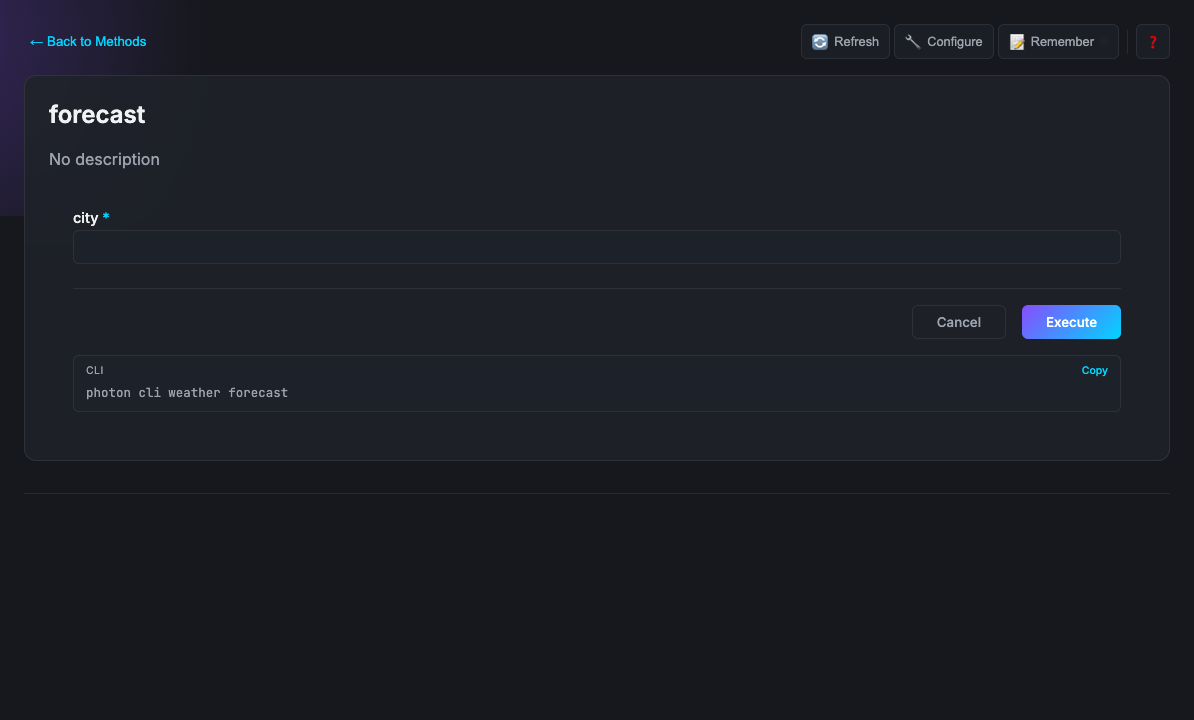
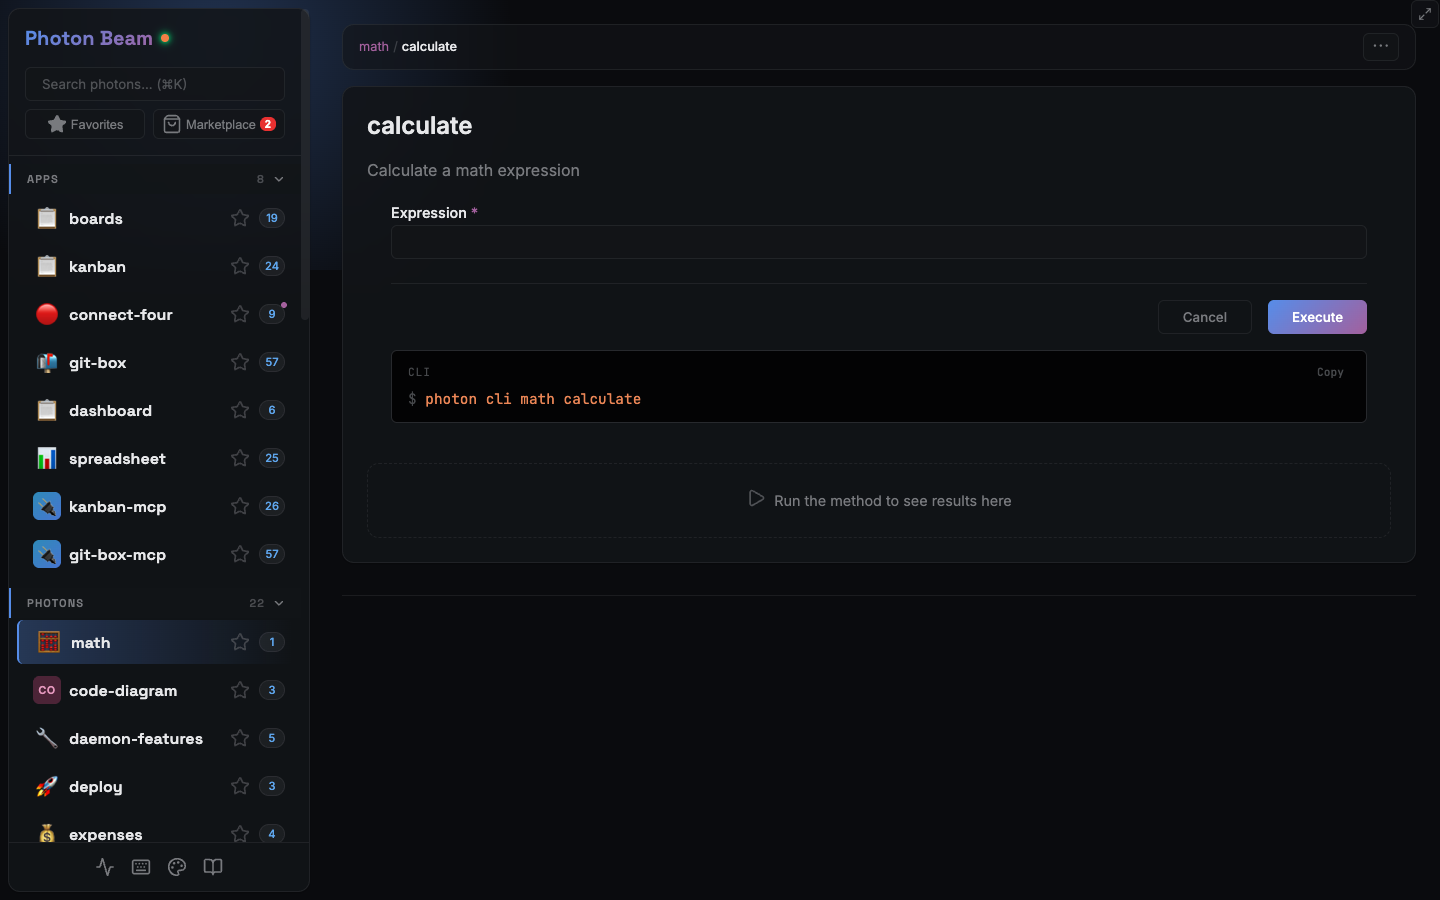
docs: refresh all screenshots and fix README polish
- Replace all step screenshots with current Beam UI
- Add video-preview.png (YouTube thumbnail with play button)
- Restore photon-ecosystem.png infographic reference
- Remove em-dashes throughout (AI writing indicator)
- Remove "Singular focus. Precise target. Made by Portel" footer
- Fix YouTube link to use video-preview.png instead of bare thumbnail

diff --git a/README.md b/README.md
@@ -16,19 +16,25 @@
 
 ---
 
-Your tools have two kinds of consumers now. Humans who open a dashboard and explore. AI agents that call your methods through a protocol. Until now, you've been building for one or the other — or building everything twice.
+Your tools have two kinds of consumers now. Humans who open a dashboard and explore. AI agents that call your methods through a protocol. Until now, you've been building for one or the other, or building everything twice.
 
 Photon is built around a different premise: **write what you mean, and let both consumers figure it out from that**.
 
-You write a TypeScript class. Methods are your capabilities. Types describe what's valid. Comments explain the intent. That's it. Photon reads all of it and generates — automatically, without configuration — a web UI for human exploration, a CLI for scripting, and an MCP server for AI agents. Same logic. Same validation. Same data. Three interfaces from one file.
+You write a TypeScript class. Methods are your capabilities. Types describe what's valid. Comments explain the intent. That's it. Photon reads all of it and generates a web UI for human exploration, a CLI for scripting, and an MCP server for AI agents. Same logic. Same validation. Same data. Three interfaces from one file.
 
 ```
 analytics.photon.ts  →  Web UI (Beam)  ·  CLI  ·  MCP Server for AI
 ```
 
-The code stays simple — almost embarrassingly simple — because the complexity isn't in what you write. It's in what Photon derives from it.
+The code stays simple, almost embarrassingly simple, because the complexity isn't in what you write. It's in what Photon derives from it.
 
-[![Watch: Why Photon? (2 min)](https://img.youtube.com/vi/FI0M8s6ZKv4/maxresdefault.jpg)](https://www.youtube.com/watch?v=FI0M8s6ZKv4)
+<div align="center">
+
+<a href="https://www.youtube.com/watch?v=FI0M8s6ZKv4">
+  <img src="https://raw.githubusercontent.com/portel-dev/photon/main/assets/video-preview.png" alt="Watch: Why Photon? (2 min)" width="100%">
+</a>
+
+</div>
 
 ---
 
@@ -37,7 +43,7 @@ The code stays simple — almost embarrassingly simple — because the complexit
 ```bash
 npm install -g @portel/photon
 photon maker new my-tool      # Create a photon
-photon                        # Open Beam — the web UI
+photon                        # Open Beam, the web UI
 ```
 
 Or without installing:
@@ -47,7 +53,7 @@ npx @portel/photon maker new my-tool
 npx @portel/photon
 ```
 
-> Requires [Node.js 18+](https://nodejs.org). TypeScript is compiled internally — no `tsconfig.json` needed.
+> Requires [Node.js 18+](https://nodejs.org). TypeScript is compiled internally; no `tsconfig.json` needed.
 
 ---
 
@@ -68,7 +74,7 @@ From this, Photon generates:
 - `photon cli analytics report --period 2024-Q4`
 - An MCP tool that Claude or Cursor can invoke
 
-No decorators. No registration. No server boilerplate. You wrote the logic — Photon derived the rest.
+No decorators. No registration. No server boilerplate. You wrote the logic. Photon derived the rest.
 
 The more you express, the more Photon understands.
 
@@ -76,17 +82,21 @@ The more you express, the more Photon understands.
 
 ## Everything You Add Becomes Something Useful
 
-This is the part that feels like it shouldn't work but does. Photon reads your TypeScript as **intent** — every construct you'd write anyway carries meaning it can act on.
+Photon reads your TypeScript as **intent**. Every construct you'd write anyway carries meaning it can act on.
 
 | What you write | What Photon derives |
 |---|---|
-| Method signatures | Tool definitions — names, inputs, outputs |
+| Method signatures | Tool definitions: names, inputs, outputs |
 | Type annotations | Input validation rules, UI field types |
 | JSDoc comments | Documentation for AI clients and human users |
 | Constructor parameters | Config UI, environment variable mapping |
 | `@tags` | Validation, formatting, scheduling, webhooks |
 
 So when you add a `@param city {@pattern ^[a-zA-Z\s]+$}` annotation you were going to write anyway, Beam automatically validates it in the form, the CLI validates it before running, and the MCP schema enforces it for the AI. One annotation. Three consumers.
+
+<div align="center">
+<img src="https://raw.githubusercontent.com/portel-dev/photon/main/assets/photon-ecosystem.png" alt="Photon: one file, three surfaces" width="100%">
+</div>
 
 ---
 
@@ -98,9 +108,9 @@ Beam is the web dashboard. Every photon becomes an interactive form. Run `photon
 <img src="https://raw.githubusercontent.com/portel-dev/photon/main/assets/beam-dashboard.png" alt="Beam Dashboard" width="100%">
 </div>
 
-The UI is **fully auto-generated** from your method signatures — field types, validation, defaults, layouts. You never write frontend code. When you add a `{@choice a,b,c}` tag to a parameter, Beam renders a dropdown. When you mark a string as `{@format email}`, the field validates email format. The UI evolves as your code does.
+The UI is **fully auto-generated** from your method signatures: field types, validation, defaults, layouts. You never write frontend code. When you add a `{@choice a,b,c}` tag to a parameter, Beam renders a dropdown. When you mark a string as `{@format email}`, the field validates email format. The UI evolves as your code does.
 
-When forms aren't the right interface for what you're building, you can replace Beam's auto-generated view with your own HTML. The custom UI receives tool results via `window.photon.onResult()` — a thin bridge, no framework required.
+When forms aren't the right interface for what you're building, you can replace Beam's auto-generated view with your own HTML. The custom UI receives tool results via `window.photon.onResult()`, a thin bridge with no framework required.
 
 > Custom UIs follow the [MCP Apps Extension (SEP-1865)](https://github.com/nicolo-ribaudo/modelcontextprotocol/blob/nicolo/sep-1865/docs/specification/draft/extensions/apps.mdx) standard and work across compatible hosts. See the [Custom UI Guide](./docs/guides/CUSTOM-UI.md).
 
@@ -135,7 +145,7 @@ Works with [Claude Desktop](https://claude.ai/download), [Claude Code](https://d
 
 Here is how a photon grows. Each step adds one thing and gets multiple capabilities from it.
 
-### Bare method → three interfaces
+### Bare method: three interfaces from twelve lines
 
 ```typescript
 export default class Weather {
@@ -151,7 +161,7 @@ A text input in Beam. A `--city` flag in the CLI. An MCP input schema. From twel
 <img src="https://raw.githubusercontent.com/portel-dev/photon/main/assets/readme-step-1.png" alt="Step 1" width="100%">
 </div>
 
-### Add comments → AI understands your intent
+### Add comments: AI understands your intent
 
 ```typescript
 /**
@@ -172,7 +182,7 @@ The class description becomes how AI clients introduce the tool to users. The `@
 <img src="https://raw.githubusercontent.com/portel-dev/photon/main/assets/readme-step-2.png" alt="Step 2" width="100%">
 </div>
 
-### Add a constructor → configuration appears
+### Add a constructor: configuration appears
 
 ```typescript
 export default class Weather {
@@ -188,13 +198,13 @@ export default class Weather {
 }
 ```
 
-`apiKey` becomes a password field in the Beam settings panel and maps to the `WEATHER_API_KEY` environment variable. `units` gets a text input with `'metric'` pre-filled. You declared what you need — Photon built the configuration surface.
+`apiKey` becomes a password field in the Beam settings panel and maps to the `WEATHER_API_KEY` environment variable. `units` gets a text input with `'metric'` pre-filled. You declared what you need. Photon built the configuration surface.
 
 <div align="center">
 <img src="https://raw.githubusercontent.com/portel-dev/photon/main/assets/readme-step-3.png" alt="Step 3" width="100%">
 </div>
 
-### Add tags → behavior extends across all surfaces
+### Add tags: behavior extends across all surfaces
 
 ```typescript
 /**
@@ -210,7 +220,7 @@ export default class Weather {
 }
 ```
 
-`@dependencies` installs `node-fetch` automatically on first run — no `npm install`. The `{@pattern}` validates in the form, the CLI, and the MCP schema simultaneously. `days` becomes a number spinner with bounds. `@format table` renders the result as a table in Beam. One annotation, three surfaces.
+`@dependencies` installs `node-fetch` automatically on first run, no `npm install` needed. The `{@pattern}` validates in the form, the CLI, and the MCP schema simultaneously. `days` becomes a number spinner with bounds. `@format table` renders the result as a table in Beam. One annotation, three surfaces.
 
 <div align="center">
 <img src="https://raw.githubusercontent.com/portel-dev/photon/main/assets/readme-step-4.png" alt="Step 4" width="100%">
@@ -243,13 +253,13 @@ Things you don't build because Photon handles them:
 
 | | |
 |---|---|
-| **Auto-UI** | Forms, field types, validation, layouts — generated from your signatures |
+| **Auto-UI** | Forms, field types, validation, layouts generated from your signatures |
 | **Stateful instances** | Multiple named instances of the same photon, each with isolated state |
 | **Persistent memory** | `this.memory` gives your photon per-instance key-value storage, no database needed |
 | **Scheduled execution** | `@scheduled` runs any method on a cron schedule |
 | **Webhooks** | `@webhook` exposes any method as an HTTP endpoint |
 | **OAuth** | Built-in OAuth 2.1 flows for Google, GitHub, Microsoft |
-| **Distributed locks** | `@locked` serializes access — one caller at a time, across processes |
+| **Distributed locks** | `@locked` serializes access: one caller at a time, across processes |
 | **Cross-photon calls** | `this.call()` invokes another photon's methods |
 | **Real-time events** | `this.emit()` fires named events to the browser UI with zero wiring |
 | **Dependency management** | `@dependencies` auto-installs npm packages on first run |
@@ -260,7 +270,7 @@ Things you don't build because Photon handles them:
 
 Two primitives. Together they unlock a class of things that are surprisingly hard to build today.
 
-**Locks** serialize access. When a method is marked `@locked`, only one caller can execute it at a time — whether that caller is a human in Beam, a CLI script, or an AI agent. Everyone else waits their turn.
+**Locks** serialize access. When a method is marked `@locked`, only one caller can execute at a time, whether that caller is a human in Beam, a CLI script, or an AI agent. Everyone else waits their turn.
 
 **Events** push state changes to any browser UI in real time. `this.emit('name', data)` in your method fires `window.photon.on('name', handler)` in your custom UI. No WebSockets to configure. No polling. The data marshalling and delivery is handled by the system.
 
@@ -273,7 +283,7 @@ export default class Chess {
   async move(params: { from: string; to: string }) {
     const result = await this.applyMove(params.from, params.to);
 
-    // Browser UI updates instantly — no polling needed
+    // Browser UI updates instantly, no polling needed
     this.emit('board-updated', result.board);
     this.emit('turn-changed', { next: result.nextPlayer });
 
@@ -288,7 +298,7 @@ window.photon.on('board-updated', board => renderBoard(board));
 window.photon.on('turn-changed', ({ next }) => showTurn(next));
 ```
 
-A human moves through Beam. Claude is configured with the MCP server. The lock ensures they truly alternate. Events keep the board live on both sides. That's a fully functional turn-based chess game — human vs AI — in about 50 lines of application logic.
+A human moves through Beam. Claude is configured with the MCP server. The lock ensures they truly alternate. Events keep the board live on both sides. That's a fully functional turn-based chess game, human vs AI, in about 50 lines of application logic.
 
 The same pattern applies beyond games: approval workflows where a human reviews before AI continues, collaborative tools where edits from any source appear instantly, simulations where steps must execute in strict sequence, any system where **who acts next matters**.
 
@@ -296,7 +306,7 @@ The same pattern applies beyond games: approval workflows where a human reviews 
 
 ## Marketplace
 
-35 photons ready to install — databases, APIs, developer tools, and more.
+35 photons ready to install: databases, APIs, developer tools, and more.
 
 <div align="center">
 <img src="https://raw.githubusercontent.com/portel-dev/photon/main/assets/beam-marketplace.png" alt="Marketplace" width="100%">
@@ -307,7 +317,7 @@ photon search postgres
 photon add postgres
 ```
 
-Browse the full catalog in the [official photons repository](https://github.com/portel-dev/photons). You can also host a private marketplace for your team — internal tools that stay off the public internet.
+Browse the full catalog in the [official photons repository](https://github.com/portel-dev/photons). You can also host a private marketplace for your team: internal tools that stay off the public internet.
 
 ---
 
@@ -405,13 +415,3 @@ Open an issue or a PR. See [CONTRIBUTING.md](./CONTRIBUTING.md).
 ## License
 
 [MIT](./LICENSE).
-
----
-
-<div align="center">
-
-*Singular focus. Precise target.*
-
-Made by [Portel](https://github.com/portel-dev)
-
-</div>
